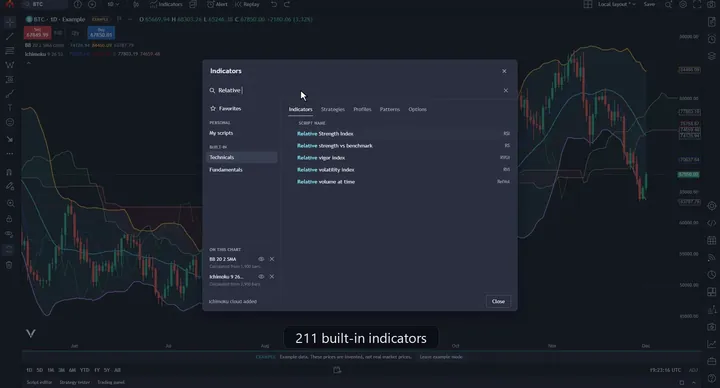
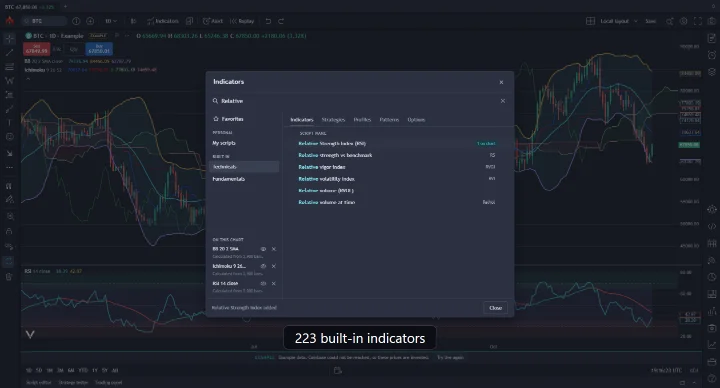
Site: 0.8.2 text, 223 indicators, new indicators screenshot

diff --git a/index.html b/index.html
@@ -150,7 +150,7 @@ footer a{color:var(--text-2)}
     <a class="btn primary" href="https://github.com/getopencandle/opencandle/releases/latest">Download for Windows</a>
     <a class="btn ghost" href="https://github.com/getopencandle/opencandle">View source and contribute</a>
   </div>
-  <p class="meta">Version 0.8.1 &middot; Windows 10 and 11 (x64) &middot; Portable ZIP &middot; PolyForm Noncommercial</p>
+  <p class="meta">Version 0.8.2 (<a href="https://github.com/getopencandle/opencandle/releases/latest">what's new</a>) &middot; Windows 10 and 11 (x64) &middot; Portable ZIP &middot; PolyForm Noncommercial</p>
   <ul class="pills">
     <li>No account</li><li>No telemetry</li><li>Local first</li><li>Source available</li>
   </ul>
@@ -174,16 +174,17 @@ footer a{color:var(--text-2)}
 
 <section id="features">
   <div class="wrap">
-    <h2>What is in 0.8.1</h2>
+    <h2>What is in 0.8.2</h2>
     <p class="sub">Below is what the download includes today. Counts come straight from the source.</p>
     <div class="grid">
       <div class="card"><h3><span class="num">22</span> chart types</h3><p>Candles, Heikin Ashi, Renko, Kagi, point and figure, line break, range bars, volume footprint, TPO, session volume profile and more.</p></div>
-      <div class="card"><h3><span class="num">211</span> built-in indicators</h3><p>Including 5 volume profiles and 62 chart and candlestick patterns, each with its own settings per instance.</p></div>
+      <div class="card"><h3><span class="num">223</span> built-in indicators</h3><p>Including 6 volume profiles and 62 chart and candlestick patterns, each with its own settings per instance.</p></div>
       <div class="card"><h3><span class="num">89</span> drawing tools</h3><p>Trend lines, channels, pitchforks, Fibonacci and Gann tools, patterns, shapes and text. Object tree, templates, magnet snapping, undo and redo.</p></div>
       <div class="card"><h3><span class="num">29</span> layouts, up to <span class="num">16</span> charts</h3><p>Layout tabs, a layout library and six sync switches: symbol, interval, crosshair, time, date range and drawings.</p></div>
       <div class="card"><h3>Bar replay and alerts</h3><p>Step and play through history; calculations never see the hidden future bars. Alerts on price, drawings and indicators, with a manager and history.</p></div>
       <div class="card"><h3>Strategy tester, <span class="num">23</span> strategies</h3><p>Performance summary, report chart and saved reports. Paper trading with market, limit, stop and stop-limit orders and a DOM pane. Virtual money only.</p></div>
       <div class="card"><h3>CandleScript</h3><p>OpenCandle's own scripting language for indicators, strategies and alert conditions, in a restricted sandbox, with an editor, completion and logs. A Pine Script importer converts common Pine v5/v6 indicators and simple strategies into CandleScript for you to review.</p></div>
+      <div class="card"><h3>Explain and export</h3><p>Every indicator and drawing tool has an About tab covering what it is for, how it is calculated, its defaults and its sources. One menu item exports every indicator on the current chart to an Excel workbook.</p></div>
       <div class="card"><h3>And more</h3><p>Watchlists, screener, SEC fundamentals and filings, FRED yield curves and macro views, heatmap, calendar and news imports, portfolio view, two built-in themes.</p></div>
     </div>
   </div>
@@ -222,7 +223,7 @@ footer a{color:var(--text-2)}
 <section id="download">
   <div class="wrap">
     <h2>Download and run</h2>
-    <p class="sub">OpenCandle 0.8.1 is a portable ZIP for Windows 10 and 11 (64-bit). There is no installer and nothing to sign up for.</p>
+    <p class="sub">OpenCandle 0.8.2 is a portable ZIP for Windows 10 and 11 (64-bit). There is no installer and nothing to sign up for.</p>
     <div class="two">
       <div class="card">
         <h3>Steps</h3>
